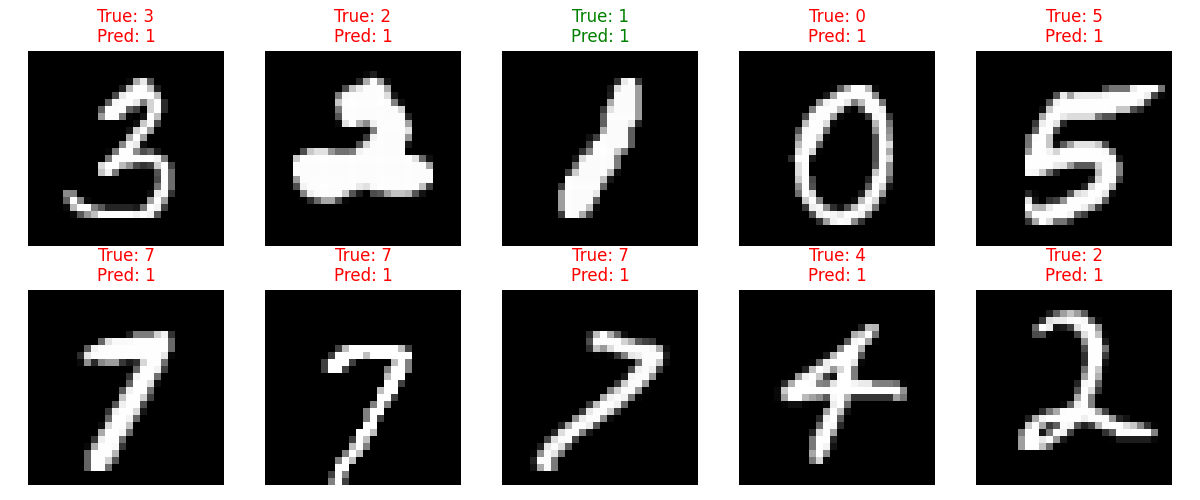
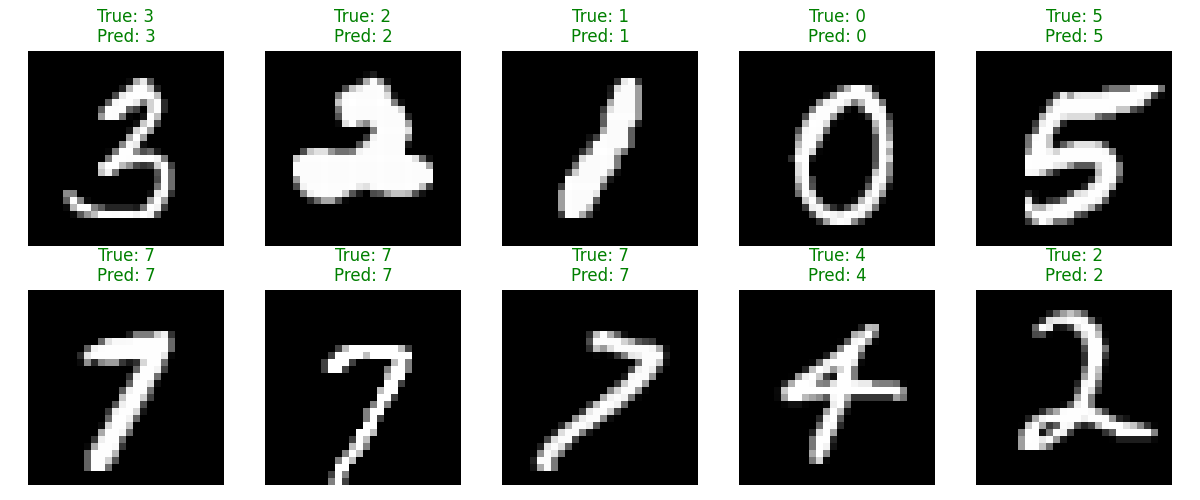
i forgot to / by m. gradients were way to large

diff --git a/src/core/network.py b/src/core/network.py
@@ -207,8 +207,8 @@ class NeuralNetwork:
         #backpropagate through each laywr
         for i in range(len(self.weights) - 1, -1, -1):
             #compute weight and bias gradients
-            dW = np.dot(self.activations[i].T, dZ)
-            db = np.sum(dZ, axis=0, keepdims=True)
+            dW = np.dot(self.activations[i].T, dZ) / m
+            db = np.sum(dZ, axis=0, keepdims=True) / m
 
             #Store gradients (insert at begin to keep order)
             self.weight_gradients.insert(0, dW)
